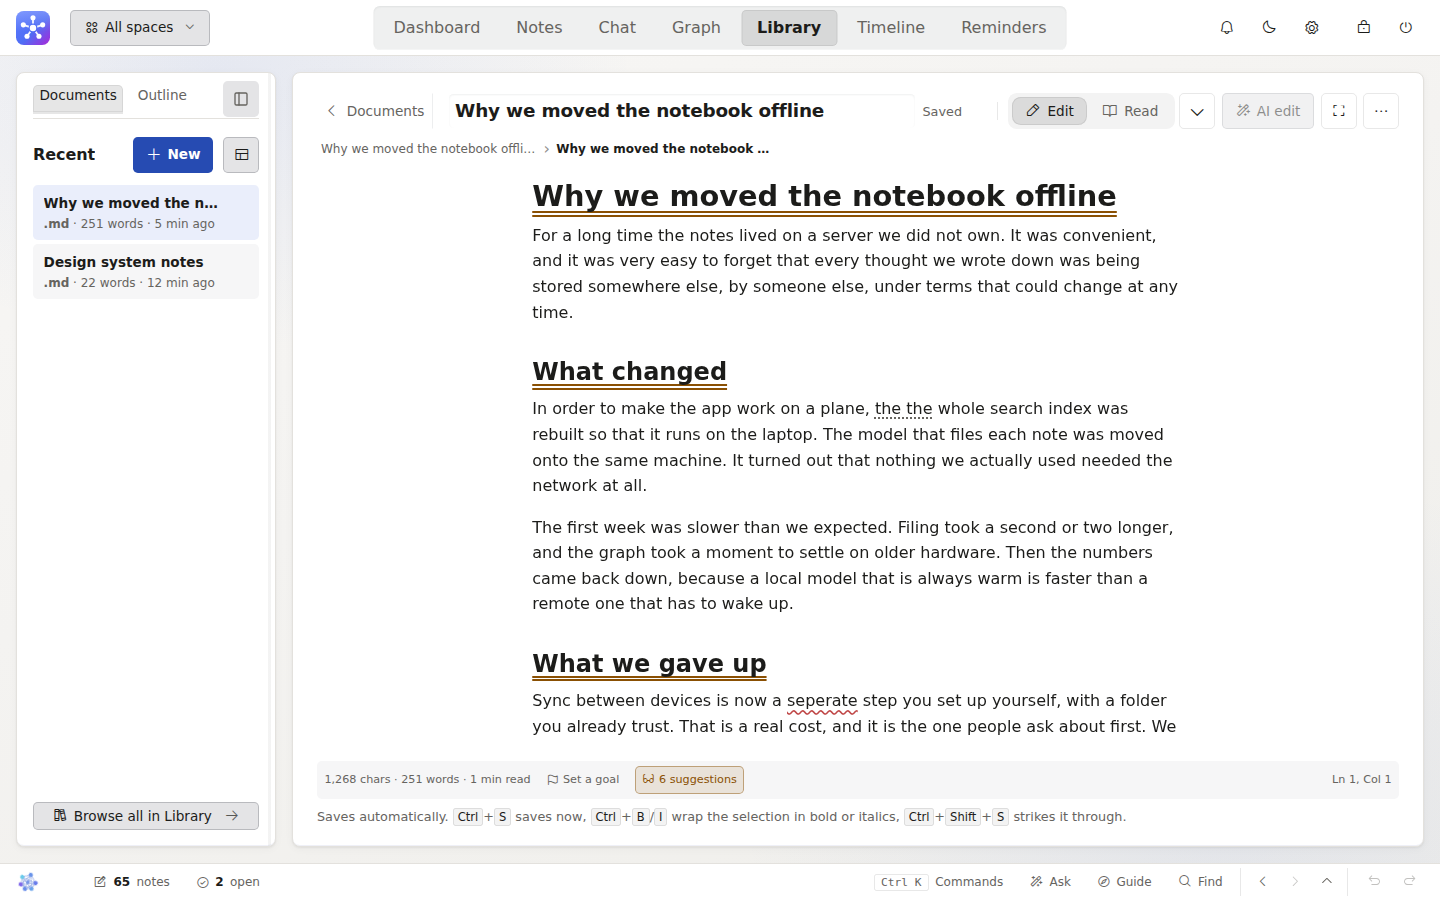
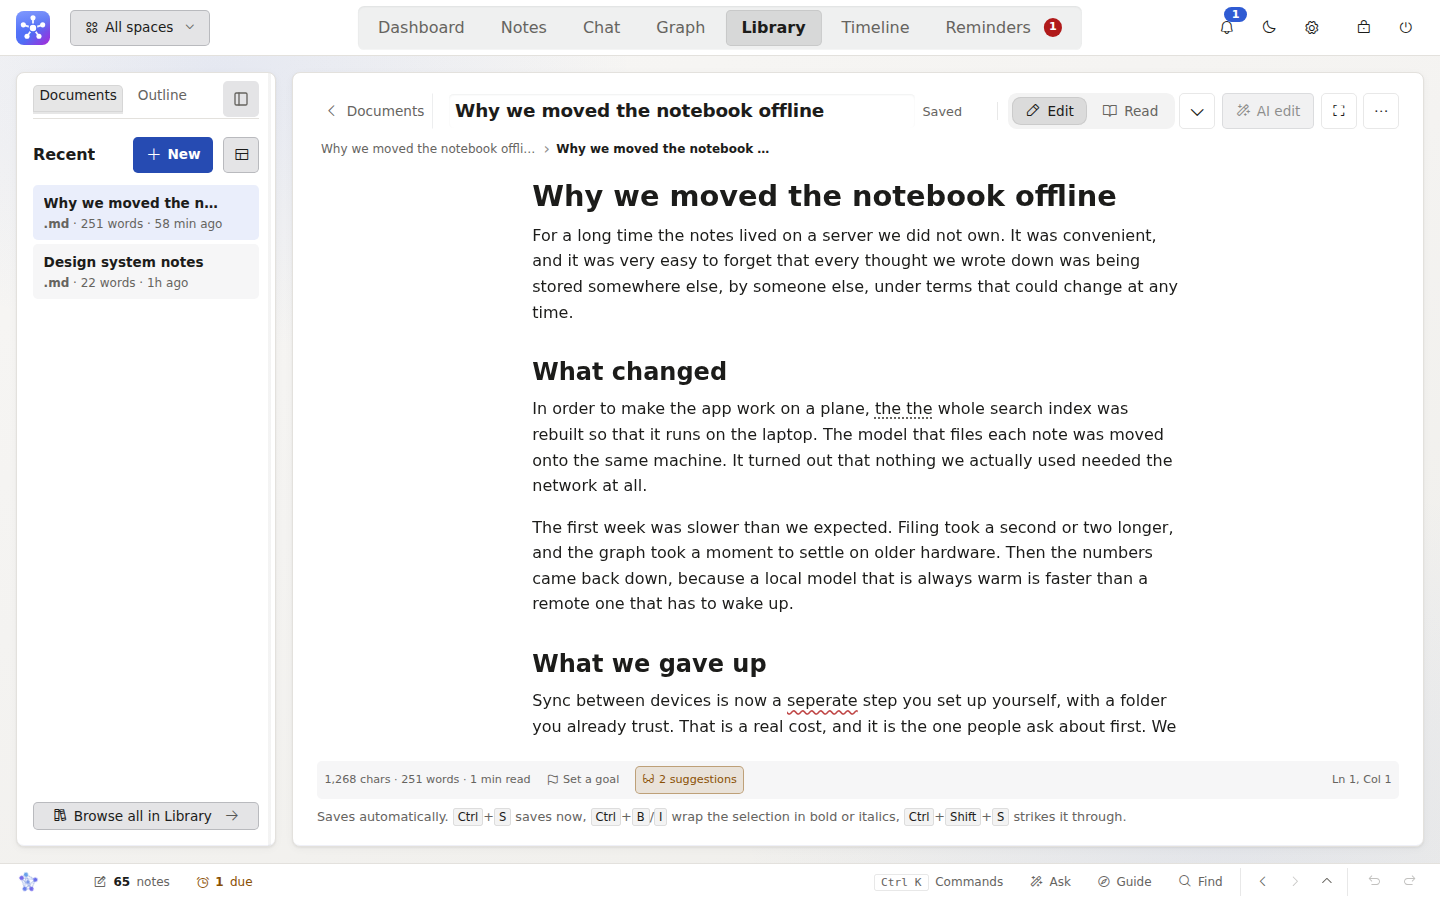
Writing suggestions: no title-case finding on a sentence-case heading
Harper's UseTitleCase ("Try to use title case in headings") asked for the
opposite of the app's own copy rule, sentence case everywhere, and was
four of the six suggestions on the README's focus-mode draft. The grammar
worker now reads each linter's whole config and writes it back with that
rule false (HARPER_RULES_OFF in harper-worker.js); every other rule keeps
Harper's default. test_prose_tools runs the real worker in node on the
vendored binary, in both dialects: a sentence-case heading gives no
title-case finding while a repeated word still does (it fails with the
rule left on). focus.png and documents.png retaken: 6 suggestions to 2.

Claude-Session: https://claude.ai/code/session_01Q9yNjL41sRa7fn34bdkhcW

diff --git a/frontend/harper-worker.js b/frontend/harper-worker.js
@@ -35,6 +35,15 @@ import { slimBinary } from "./vendor/harper/slimBinary.js";
 
 const linters = new Map();
 
+//: **Harper's rules this app turns off**, by the names Harper's lint config
+//: uses. `UseTitleCase` ("Try to use title case in headings") asks for the
+//: opposite of this app's own copy rule, sentence case everywhere (CLAUDE.md
+//: standing order 6, DESIGN.md "Voice"): it flagged every heading of a
+//: document written the way the app writes, four of the six suggestions on
+//: the README's focus-mode shot. Every other rule keeps Harper's default.
+//: `tests/test_prose_tools.py` runs this worker in node and holds it.
+const HARPER_RULES_OFF = ["UseTitleCase"];
+
 function dialectOf(name) {
   return name === "uk" ? Dialect.British : Dialect.American;
 }
@@ -43,7 +52,15 @@ async function linterFor(name) {
   const key = name === "uk" ? "uk" : "us";
   let linter = linters.get(key);
   if (!linter) {
-    linter = slimBinary.createLinter(dialectOf(key));
+    linter = slimBinary.createLinter(dialectOf(key)).then((made) => {
+      //: The whole config, defaults and all, with the rules above set false:
+      //: read back and written whole, so no rule's state is left to however
+      //: this build treats a key that is missing.
+      const config = made.get_lint_config_as_object();
+      for (const rule of HARPER_RULES_OFF) config[rule] = false;
+      made.set_lint_config_from_object(config);
+      return made;
+    });
     linters.set(key, linter);
   }
   return linter;

diff --git a/tests/test_prose_tools.py b/tests/test_prose_tools.py
@@ -106,6 +106,60 @@ def test_the_note_boxes_get_the_grammar_plugin() -> None:
     assert "noteGrammarPlugin(CM)" in _body("noteSurfaceExtensions")
 
 
+#: The real worker, run in node on the vendored binary: a stand-in `self` for
+#: the worker's message port, and `fetch` answering the `file:` URL the binary
+#: is loaded from (node's own fetch refuses that scheme).
+HARPER_DRIVER = r"""
+import { readFile } from "node:fs/promises";
+const realFetch = globalThis.fetch;
+globalThis.fetch = async (url, init) => {
+  const href = String(url && url.href ? url.href : url);
+  if (href.startsWith("file:")) {
+    return new Response(await readFile(new URL(href)), { headers: { "Content-Type": "application/wasm" } });
+  }
+  return realFetch(url, init);
+};
+let handler = null;
+const replies = [];
+globalThis.self = {
+  addEventListener: (type, fn) => { if (type === "message") handler = fn; },
+  postMessage: (message) => replies.push(message),
+};
+await import(process.argv[2]);
+const text = process.argv[3];
+for (const dialect of ["uk", "us"]) {
+  await handler({ data: { id: dialect, dialect, text } });
+}
+process.stdout.write(JSON.stringify(replies));
+"""
+
+
+def test_a_sentence_case_heading_is_not_a_finding(tmp_path) -> None:
+    """The app writes headings in sentence case (CLAUDE.md standing order 6),
+    and Harper's `UseTitleCase` asked for title case on every one of them:
+    four of the six suggestions on the README's focus-mode shot, 2026-09-26.
+    Run through the worker itself, so the rule is off where the page gets its
+    findings, not only in a list; the repeated word proves the checker ran."""
+    node = shutil.which("node")
+    if not node:  # pragma: no cover - node is in the sandbox and in CI
+        pytest.skip("node is not available")
+    script = tmp_path / "harper.mjs"
+    script.write_text(HARPER_DRIVER, encoding="utf-8")
+    text = "# Why we moved the notebook offline\n\n## What changed\n\nThe the search index moved.\n"
+    out = subprocess.run(
+        [node, str(script), (FRONTEND / "harper-worker.js").as_uri(), text],
+        capture_output=True, text=True, timeout=120, check=False,
+    )
+    assert out.returncode == 0, out.stderr
+    replies = json.loads(out.stdout)
+    assert [r["id"] for r in replies] == ["uk", "us"]
+    for reply in replies:
+        assert reply["ok"], reply
+        messages = [lint["message"] for lint in reply["lints"]]
+        assert not [m for m in messages if "title case" in m.lower()], messages
+        assert any(lint["problem"] == "The the" for lint in reply["lints"]), messages
+
+
 # --- suggestion mode -----------------------------------------------------------
 #
 # The model between DOC-SUGGEST-BEGIN and DOC-SUGGEST-END is pure string work,

diff --git a/CHANGELOG.md b/CHANGELOG.md
@@ -33,6 +33,7 @@ below). Versioning is `0.x` while the app stabilises.
 - The app's own code, one 50,000-line app.js, is now 23 files loaded in its old order (app.js, note-cards.js to spaces-find.js), each under 51 KB gzipped against 740 KB for the one file. Nothing a person sees changes; a warm reload measured about 30 ms slower and a cold load the same, for 22 more requests and 3.6% more bytes on the wire.
 
 ### Fixed
+- Documents: the writing suggestions no longer ask for title case in headings. The grammar checker's rule wanted every heading in title case, the opposite of the sentence case the app writes in, and it was most of the suggestions on a document written that way (four of six on the README's draft).
 - Documents: the expanded formatting toolbar's own buttons no longer take a row to themselves; when they would, layout and collapse are left to the document's ⋯ menu and line numbers moves to the end of the first row.
 - The graph's empty state shows the app's turning logo, as the chat's does, instead of a generic network icon.
 - Links and accent-coloured words use a text-safe shade of the accent in every palette and mode, so a bright accent (rose on paper, a picked yellow) no longer turns them unreadable; fills keep the accent itself.

diff --git a/docs/CHANGELOG.md b/docs/CHANGELOG.md
@@ -33,6 +33,7 @@ below). Versioning is `0.x` while the app stabilises.
 - The app's own code, one 50,000-line app.js, is now 23 files loaded in its old order (app.js, note-cards.js to spaces-find.js), each under 51 KB gzipped against 740 KB for the one file. Nothing a person sees changes; a warm reload measured about 30 ms slower and a cold load the same, for 22 more requests and 3.6% more bytes on the wire.
 
 ### Fixed
+- Documents: the writing suggestions no longer ask for title case in headings. The grammar checker's rule wanted every heading in title case, the opposite of the sentence case the app writes in, and it was most of the suggestions on a document written that way (four of six on the README's draft).
 - Documents: the expanded formatting toolbar's own buttons no longer take a row to themselves; when they would, layout and collapse are left to the document's ⋯ menu and line numbers moves to the end of the first row.
 - The graph's empty state shows the app's turning logo, as the chat's does, instead of a generic network icon.
 - Links and accent-coloured words use a text-safe shade of the accent in every palette and mode, so a bright accent (rose on paper, a picked yellow) no longer turns them unreadable; fills keep the accent itself.

diff --git a/README.md b/README.md
@@ -79,12 +79,12 @@ capture a thought
 </p>
 
 <p align="center">
-  <img src="docs/screenshots/documents.png" alt="Documents: the long-form editor on a draft, with its outline, word count and six writing suggestions underlined in place" width="850">
+  <img src="docs/screenshots/documents.png" alt="Documents: the long-form editor on a draft, with its outline, word count and two writing suggestions underlined in place" width="850">
   <br><sub><b>Documents</b>: a long-form editor with four views, writing checks and full history</sub>
 </p>
 
 <p align="center">
-  <img src="docs/screenshots/focus.png" alt="Documents in focus mode: the page alone under a slim bar, with the writing suggestions panel open beside it listing a spelling slip, a repeated word and four heading checks" width="850">
+  <img src="docs/screenshots/focus.png" alt="Documents in focus mode: the page alone under a slim bar, with the writing suggestions panel open beside it listing a spelling slip and a repeated word" width="850">
   <br><sub><b>Focus mode</b>: the page and nothing else, with the suggestions beside it when you want them</sub>
 </p>
 

diff --git a/docs/roadmap/agent-remaining/OPEN.md b/docs/roadmap/agent-remaining/OPEN.md
@@ -46,11 +46,6 @@ two decisions only the owner can take are INBOX 427.
 - **uipolish-0924 leftovers**: `deadbtn.js`'s Chat export and delete
   findings, the icon-only touch floor app-wide, the surface-by-surface pass
   (its item D). [ui-426]
-- **The writing suggestions flag sentence-case headings** ("Try to use title
-  case in headings", a rule of the vendored Harper checker), the case this
-  app's own copy rule asks for; seen on
-  the README's focus shot. A rule the app's style contradicts should be off
-  by default. [docs-0.3.3]
 - **The README's OCR shot is the 0.3.2 capture, in dark**: `seed-ocr.js`
   needs a Tesseract binary this sandbox does not have, so it was not retaken
   with the rest (`SKIP=ocr`). [docs-0.3.3]

diff --git a/docs/roadmap/HANDOVER.md b/docs/roadmap/HANDOVER.md
@@ -373,8 +373,8 @@ this head (`readmeshots.js`, `atlasreadme.js`, `pngshrink.py`).
 **Next:** INBOX 427, the owner's two calls (Atlas's anatomy after rounds 3
 and 4; the companion's pin near an edge). Then `agent-remaining/OPEN.md`,
 "Left by the 0.3.3 agents", first the two found by the README pass: the
-popup agent's Atlas head overflowing its 28px slot, and the writing
-suggestions' heading-case rule contradicting the app's own sentence case.
+popup agent's Atlas head overflowing its 28px slot (the writing
+suggestions' heading-case rule, the other, is off since 0.3.3).
 
 **The 2026-09-21 Now blocks** (the app saying true things about itself; the
 guided tour's third fix, CI's cancel-in-progress, the unsigned commits) are
